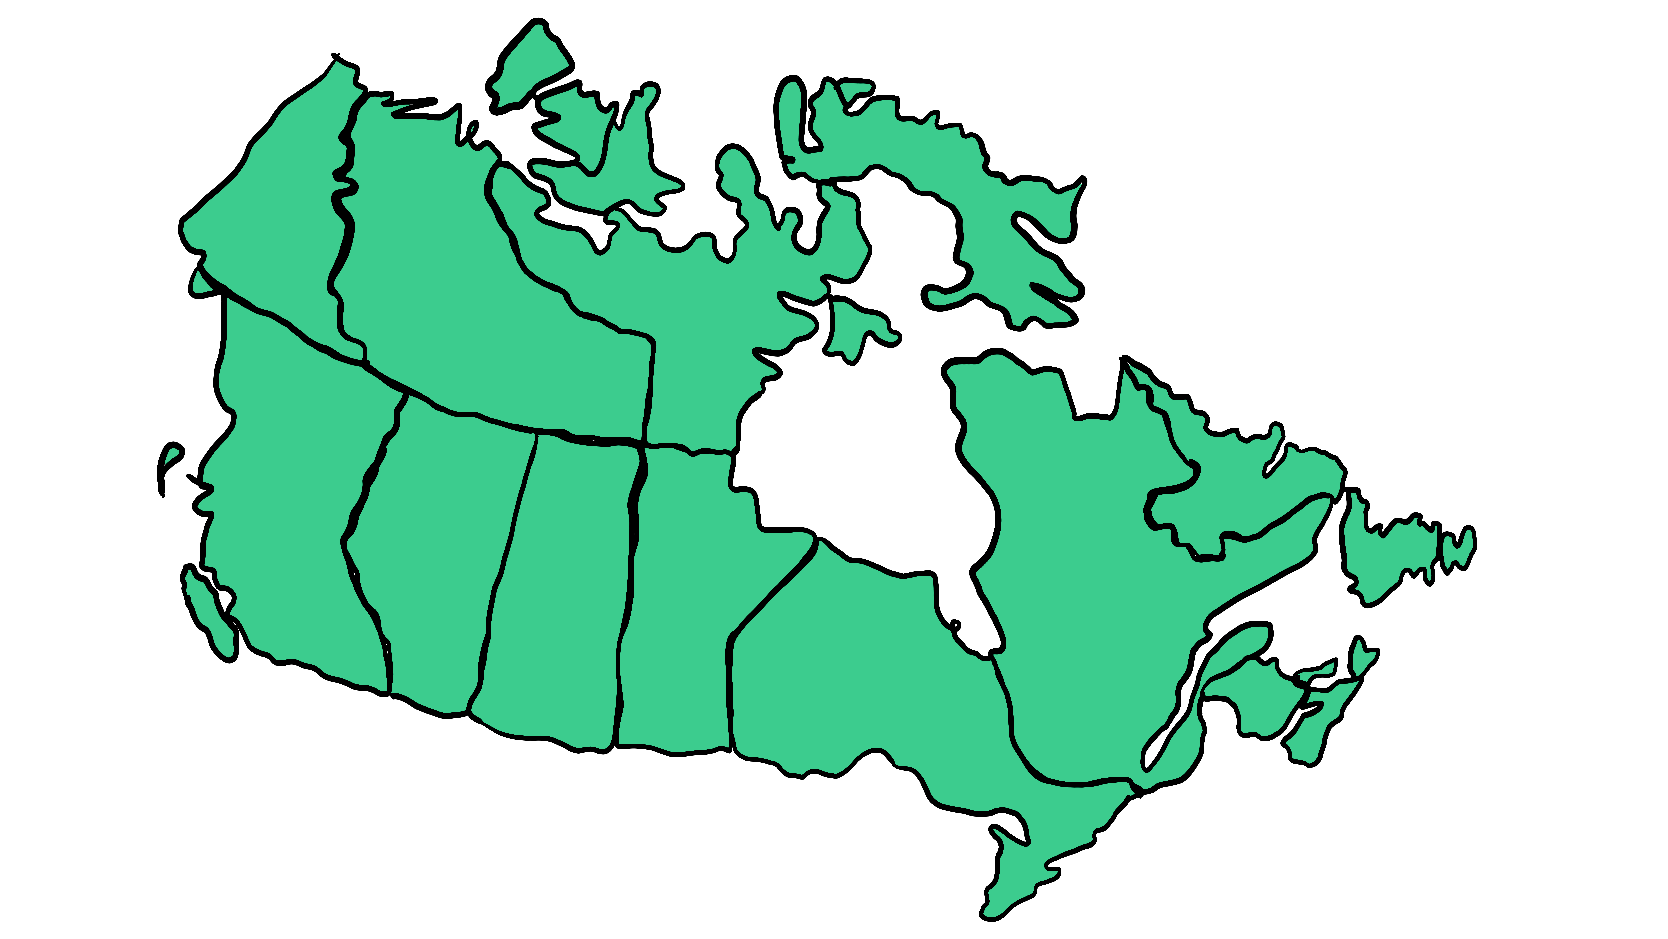
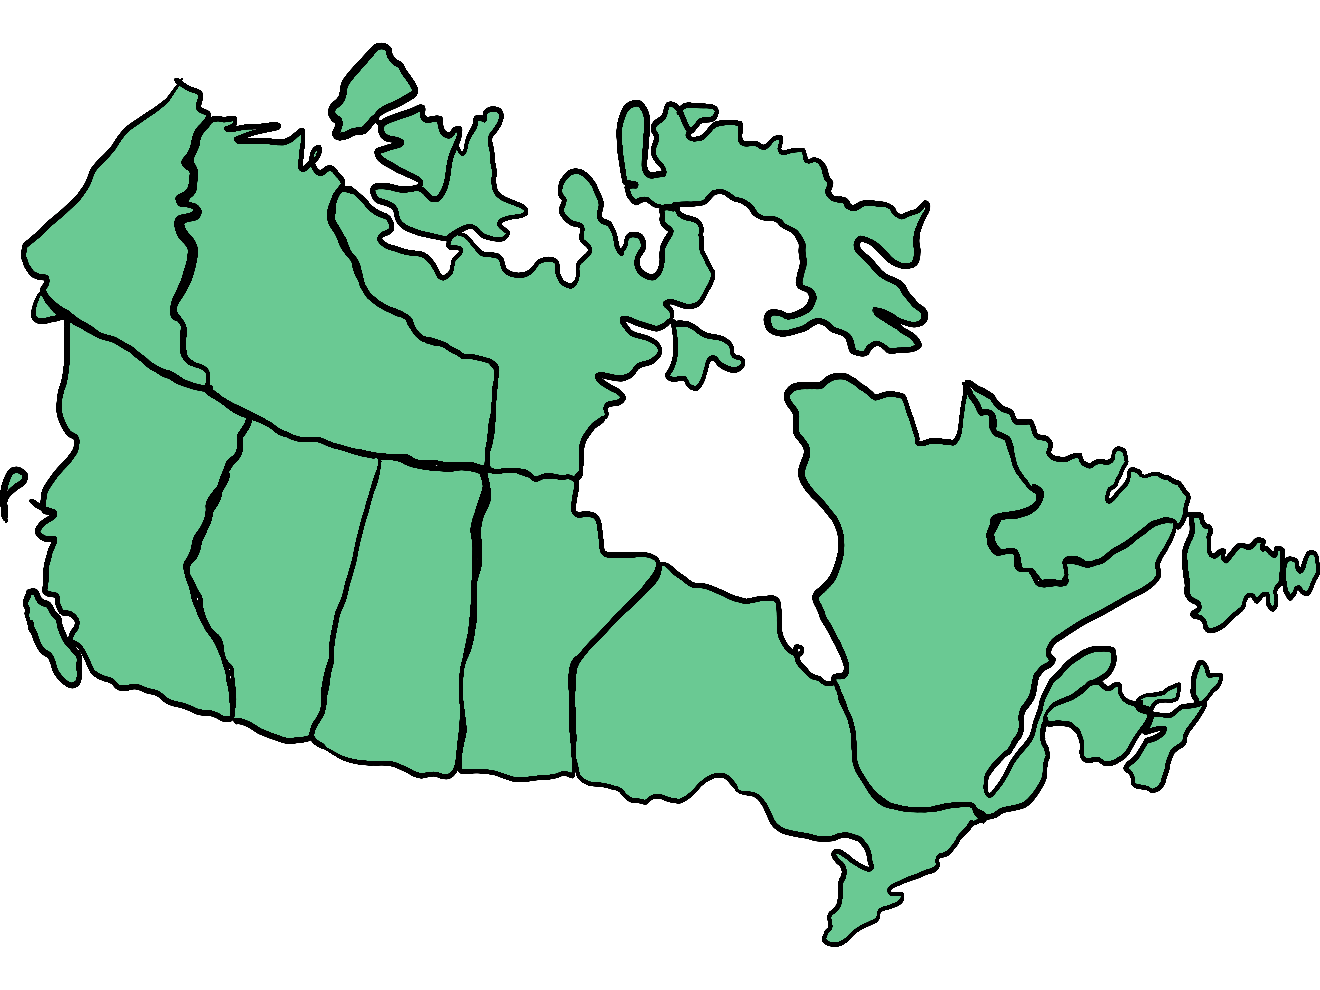
Added final version of map - bugs expected

diff --git a/static/js/main.js b/static/js/main.js
@@ -11,7 +11,7 @@ alberta.addEventListener("mouseover", function(){
 }); // End Alberta Hover Tile Changer
 
 //Mobile Map Slideshow
-let images = ["static/img/bc-final.png", "static/img/alberta-final.png"];
+let images = ["static/img/bc-final.png", "static/img/alberta-final.png", "static/img/sk-final.png", "static/img/mb-final.png", "static/img/on-final.png", "static/img/qc-final.png", "static/img/nl-final.png", "static/img/nb-final.png", "static/img/ns-final.png"];
 let currentImg = 0;
 
 document.querySelector(".next").addEventListener("click", function(){
@@ -31,9 +31,24 @@ document.querySelector(".next").addEventListener("click", function(){
     } else if (currentImg == 2){
         document.querySelector(".mobile-local-button").href = "#";
         document.querySelector(".mobile-provice-name").innerHTML = "Saskatchewan";
-    } else {
+    } else if (currentImg == 3) {
         document.querySelector(".mobile-local-button").href = "#";
         document.querySelector(".mobile-provice-name").innerHTML = "Manitoba";
+    } else if (currentImg == 4) {
+        document.querySelector(".mobile-local-button").href = "#";
+        document.querySelector(".mobile-provice-name").innerHTML = "Ontario";
+    } else if (currentImg == 5) {
+        document.querySelector(".mobile-local-button").href = "#";
+        document.querySelector(".mobile-provice-name").innerHTML = "Quebec";
+    } else if (currentImg == 6) {
+        document.querySelector(".mobile-local-button").href = "#";
+        document.querySelector(".mobile-provice-name").innerHTML = "Newfoundland & Labrador";
+    } else if (currentImg == 7) {
+        document.querySelector(".mobile-local-button").href = "#";
+        document.querySelector(".mobile-provice-name").innerHTML = "New Brunswick";
+    } else if (currentImg == 8) {
+        document.querySelector(".mobile-local-button").href = "#";
+        document.querySelector(".mobile-provice-name").innerHTML = "Nova Scotia & Prince Edward Island";
     }
 })
 
@@ -46,16 +61,31 @@ document.querySelector(".prev").addEventListener("click", function(){
     document.querySelector(".holder-mobile>div>img").src = images[currentImg];
 
     if(currentImg == 0){
-        document.querySelector(".mobile-local-button").href = "local-bc.html";
+        document.querySelector(".mobile-local-button").href = "#";
         document.querySelector(".mobile-provice-name").innerHTML = "British Columbia";
     } else if (currentImg == 1){
-        document.querySelector(".mobile-local-button").href = "local-alberta.html";
+        document.querySelector(".mobile-local-button").href = "province/ab";
         document.querySelector(".mobile-provice-name").innerHTML = "Alberta";
     } else if (currentImg == 2){
-        document.querySelector(".mobile-local-button").href = "local-sask.html";
+        document.querySelector(".mobile-local-button").href = "#";
         document.querySelector(".mobile-provice-name").innerHTML = "Saskatchewan";
-    } else {
-        document.querySelector(".mobile-local-button").href = "local-manitoba.html";
+    } else  if (currentImg == 3){
+        document.querySelector(".mobile-local-button").href = "#";
         document.querySelector(".mobile-provice-name").innerHTML = "Manitoba";
+    } else if (currentImg == 4) {
+        document.querySelector(".mobile-local-button").href = "#";
+        document.querySelector(".mobile-provice-name").innerHTML = "Ontario";
+    } else if (currentImg == 5) {
+        document.querySelector(".mobile-local-button").href = "#";
+        document.querySelector(".mobile-provice-name").innerHTML = "Quebec";
+    } else if (currentImg == 6) {
+        document.querySelector(".mobile-local-button").href = "#";
+        document.querySelector(".mobile-provice-name").innerHTML = "Newfoundland & Labrador";
+    } else if (currentImg == 7) {
+        document.querySelector(".mobile-local-button").href = "#";
+        document.querySelector(".mobile-provice-name").innerHTML = "New Brunswick";
+    } else if (currentImg == 8) {
+        document.querySelector(".mobile-local-button").href = "#";
+        document.querySelector(".mobile-provice-name").innerHTML = "Nova Scotia & Prince Edward Island";
     }
 })

diff --git a/static/css/styles.css b/static/css/styles.css
@@ -935,8 +935,8 @@ footer .bottom p {
   background-image: url(../img/map-of-canada.png);
   background-size: 90%;
   background-repeat: no-repeat;
-  height: 40rem;
-  padding-top: 18%;
+  height: 50rem;
+  padding-top: 22%;
 }
 
 .province-nav {
@@ -1172,7 +1172,7 @@ footer .bottom p {
 .local {
   background-image: url(../img/local-arrow.svg);
   background-repeat: no-repeat;
-  margin-left: -51%;
+  margin-left: -63%;
   width: 6%;
   height: 15%;
   padding: 1rem;
@@ -1185,7 +1185,7 @@ footer .bottom p {
 }
 
 .holder-mobile > div > img {
-  width: 25rem;
+  width: 20rem;
   margin: 0 auto;
 }
 
@@ -1195,8 +1195,8 @@ footer .bottom p {
 }
 
 .slideshow-buttons > span {
-  height: 4rem;
-  width: 4rem;
+  height: 3rem;
+  width: 3rem;
   margin: 0;
   border-radius: 15px;
 }

diff --git a/static/scss/map/_map-styles.scss b/static/scss/map/_map-styles.scss
@@ -71,8 +71,8 @@
     background-image: url(../img/map-of-canada.png);
     background-size: 90%;
     background-repeat: no-repeat;
-    height: 40rem;
-    padding-top: 18%;
+    height: 50rem;
+    padding-top: 22%;
   }
 
   .province-nav{
@@ -313,7 +313,7 @@
   .local{
     background-image: url(../img/local-arrow.svg);
     background-repeat: no-repeat;
-    margin-left: -51%;
+    margin-left: -63%;
     width: 6%;
     height: 15%;
     padding: 1rem;
@@ -326,7 +326,7 @@
   }
   
   .holder-mobile>div>img{
-    width: 25rem;
+    width: 20rem;
     margin: 0 auto;
   }
   
@@ -336,8 +336,8 @@
   }
   
   .slideshow-buttons>span{
-    height: 4rem;
-    width: 4rem;
+    height: 3rem;
+    width: 3rem;
     margin: 0;
     border-radius: 15px;
   }
